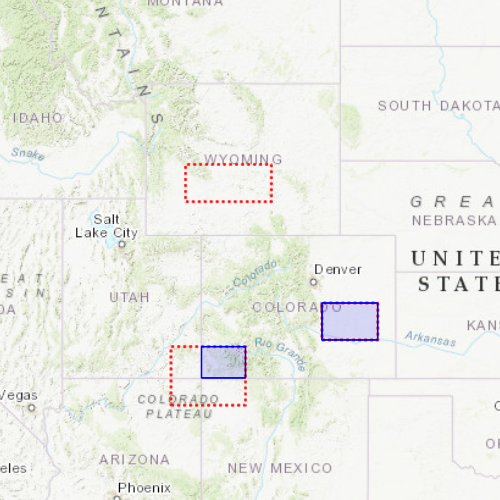
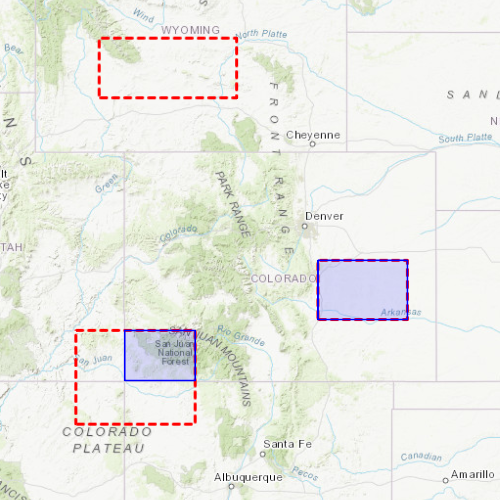
Update screenshot and dash/dot in QML sample to match C++

diff --git a/ArcGISRuntimeSDKQt_QMLSamples/Geometry/ClipGeometry/ClipGeometry.qml b/ArcGISRuntimeSDKQt_QMLSamples/Geometry/ClipGeometry/ClipGeometry.qml
@@ -54,7 +54,7 @@ Rectangle {
             // Create the dotted outline for the clipping envelopes
             SimpleLineSymbol {
                 id: redOutline
-                style: Enums.SimpleLineSymbolStyleDot
+                style: Enums.SimpleLineSymbolStyleDash
                 color: "#FFFF0000"
                 width: 3
             }
